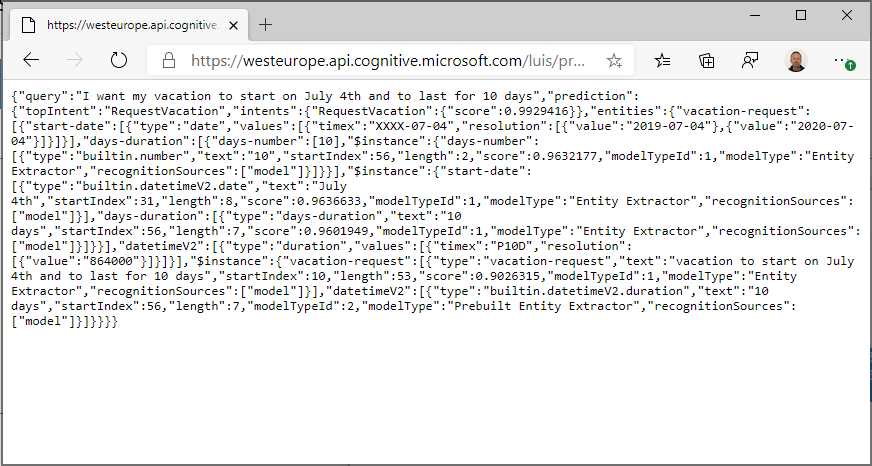
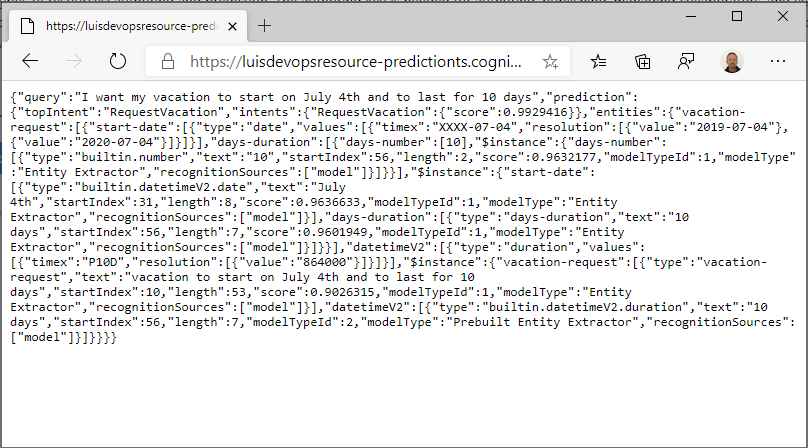
Using the custom subdomain in prediction request

Changed region(s): [[0.0, 0.0, 1.0, 0.7812], [0.9901, 0.75, 1.0, 0.875], [0.0, 0.9688, 0.0309, 1.0]]

diff --git a/docs/feature-branches-and-running-pipelines.md b/docs/feature-branches-and-running-pipelines.md
@@ -195,11 +195,12 @@ If you click on **luis_latest_version.json** you can download it and open it in 
 The URI format for the endpoint is as follows:
 
 <code>
-https://<i>{AzureRegion}</i>.api.cognitive.microsoft.com/luis/prediction/v3.0/apps/<i>{AppId}</i>/versions/<i>{VersionId}</i>/predict?verbose=true&timezoneOffset=0&subscription-key=<i>{LUISSubscriptionKey}</i>&query=<i>yourQuery</i>
+https://<i>{Subdomain}</i>.cognitiveservices.azure.com/luis/prediction/v3.0/apps/<i>{AppId}</i>/versions/<i>{VersionId}</i>/predict?verbose=true&timezoneOffset=0&subscription-key=<i>{LUISSubscriptionKey}</i>&query=<i>yourQuery</i>
 </code>
 
 In this:
-* **AzureRegion** - Use the region where you created all the LUIS resources, one of *westus*, *westeurope* or *australiaeast*
+
+* **Subdomain** - Use the prediction resource name. For example, the endpoint URL for a prediction resource called *luisdevops-prediction* will be *https://luisdevops-prediction.cognitiveservices.azure.com*.
 * **AppId** - the LUIS application ID. Get this by signing into the LUIS portal, finding your LUIS app for the master branch and goto the **Manage** tab
 * **VersionId** - the version ID of the new version in the GitHub release.
 * **LUISSubscriptionKey** - the LUIS Prediction resource key. Get this from the Manage tab for your master LUIS app in the LUIS portal, and then go to Azure Resources. Copy the **Primary Key** shown for the Prediction Resource.
